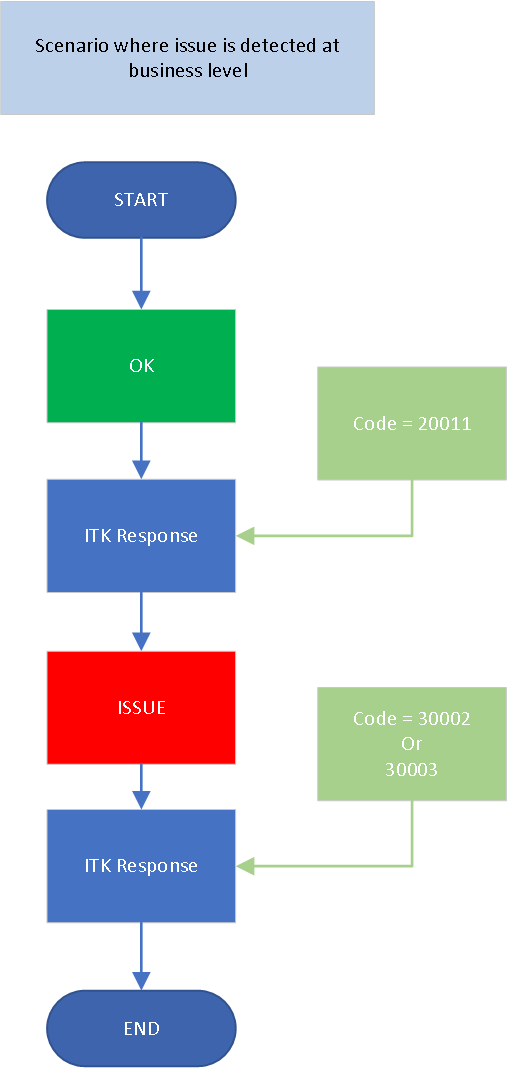
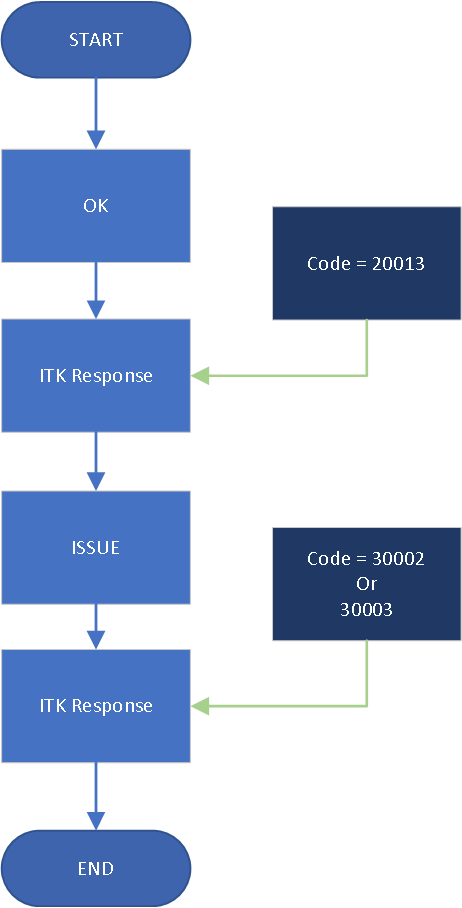
Updated for changes in error codes

diff --git a/pages/explore/explore_response_codes.md b/pages/explore/explore_response_codes.md
@@ -1113,15 +1113,19 @@ The following are the response patterned supported by ITK3. These are dependant 
 ## Full Acknowledgement ## 
 This uses both acknowledgement flags set to true. This is the most rigorous response framework.
 
-There are 3 possible scenarios:
+There are 3 possible flows:
+
+Flow where issue is detected at infrastructure (technical) level
 
 <img src="images/explore/full_ack_1.png" style="width: 75%;max-width: 75%;"/> 
 
 
+Flow where issues are detected
 
 <img src="images/explore/full_ack_2.png" style="width: 75%;max-width: 75%;"/> 
 
 
+Flow where no issue is detected at business level
 
 <img src="images/explore/full_ack_3.png" style="width: 75%;max-width: 75%;"/> 
 
